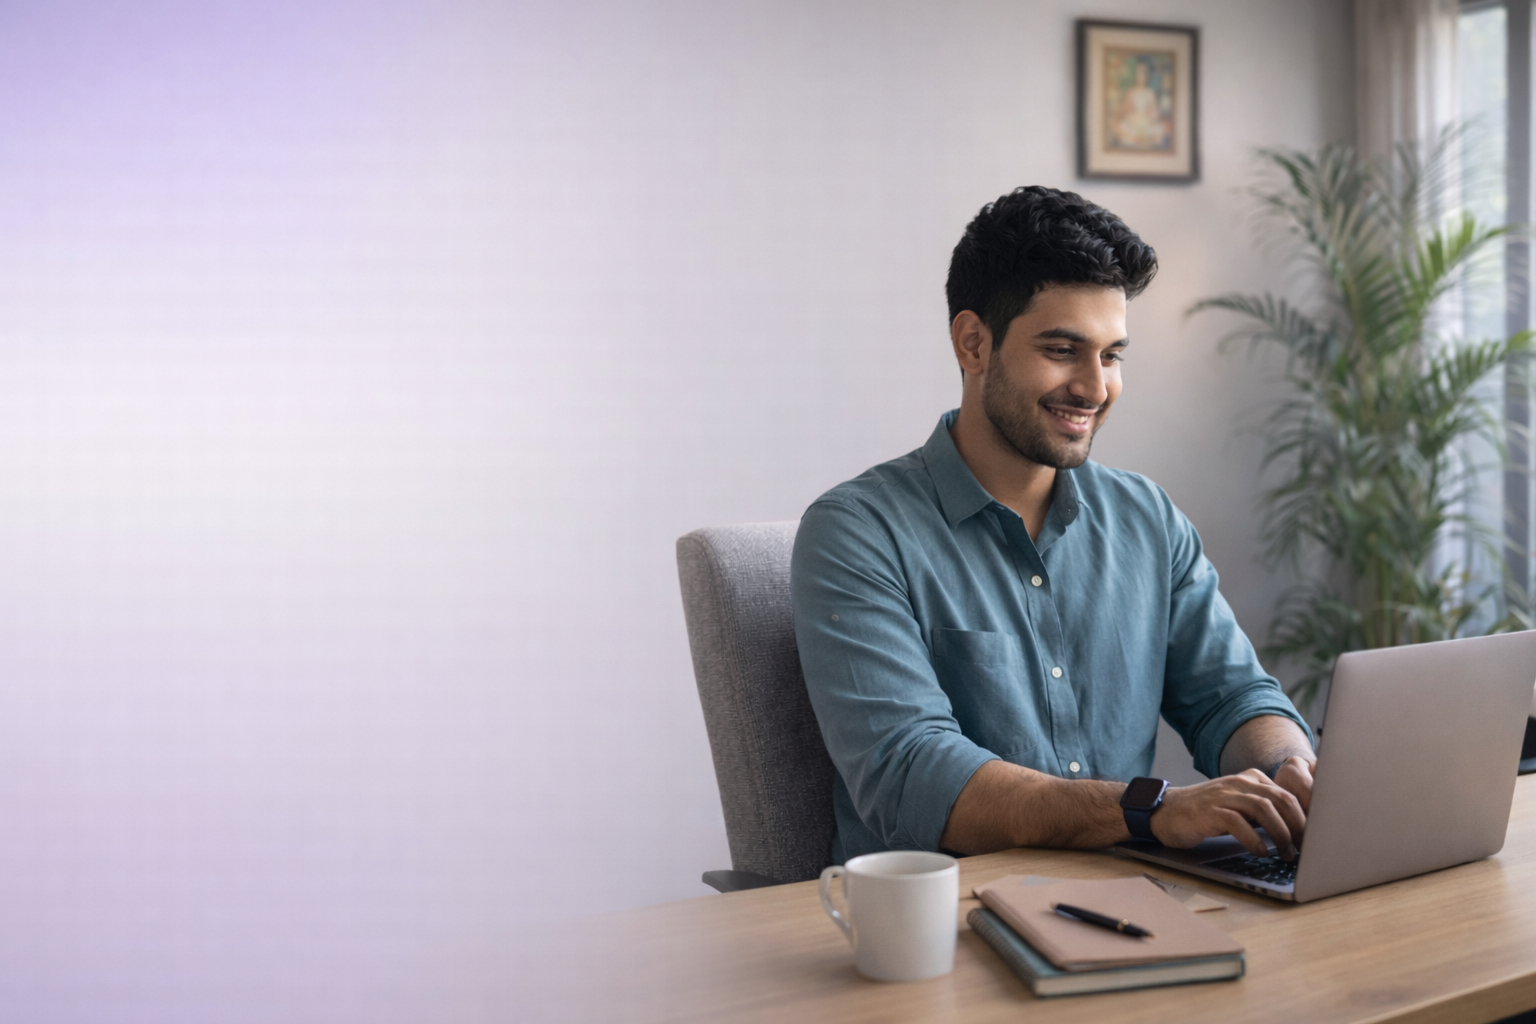
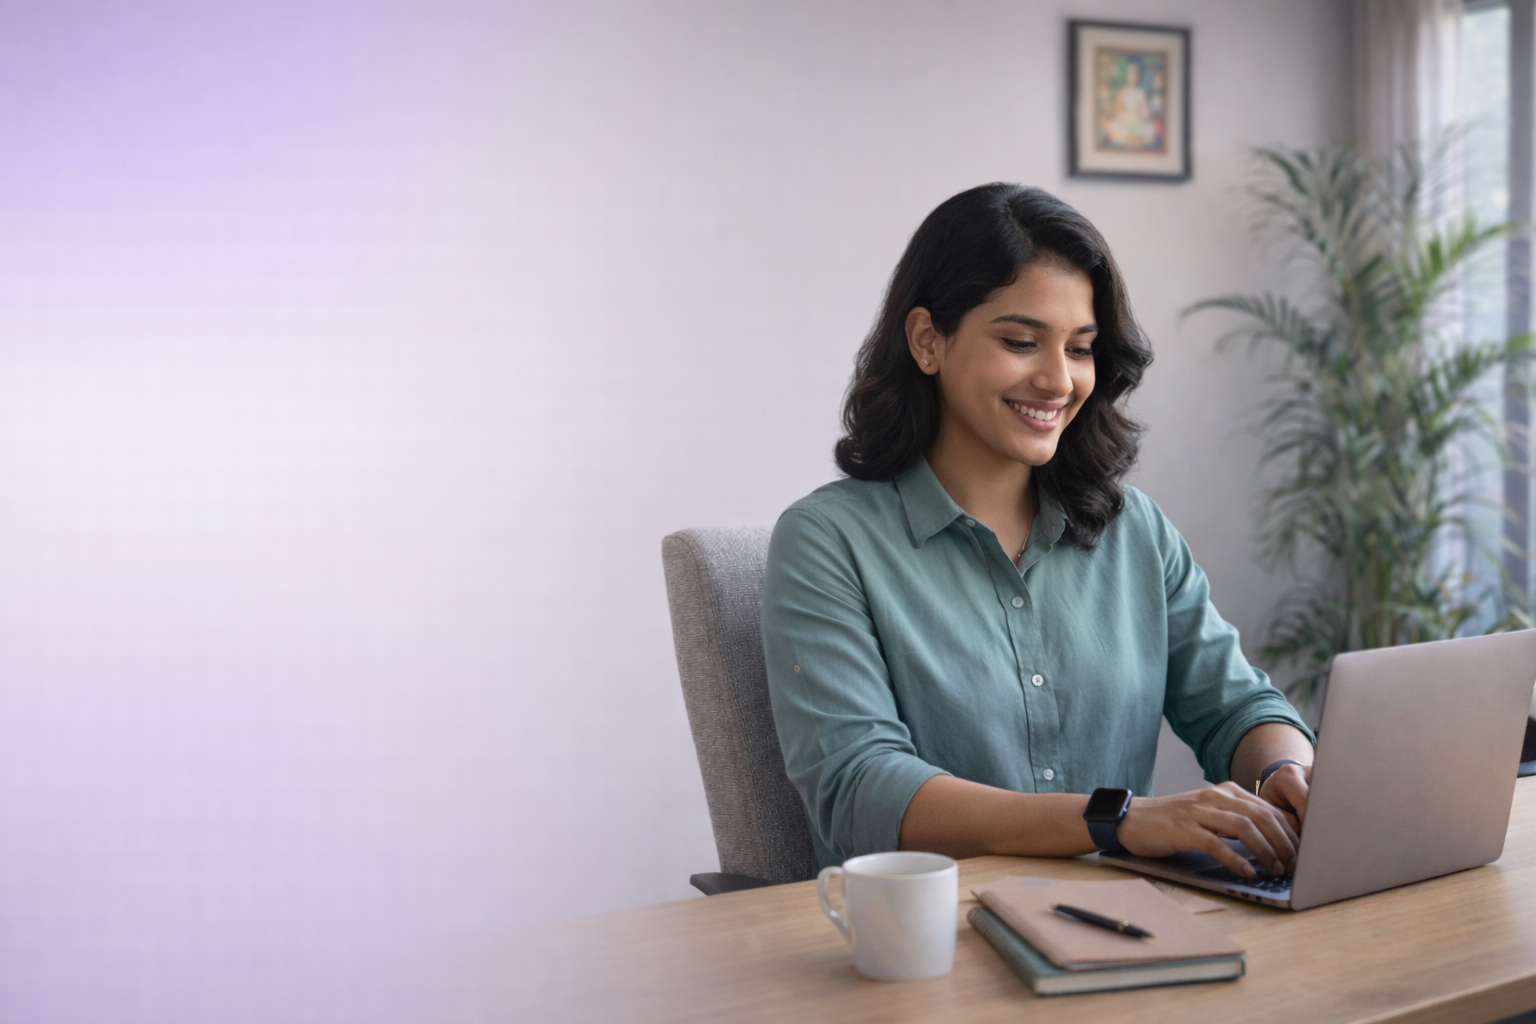
text and UI updates ver:06022026

diff --git a/src/components/Home/Hero.js b/src/components/Home/Hero.js
@@ -6,10 +6,11 @@ import { createGsapContext } from "@/lib/gsap";
 export default function Hero() {
   const heroImages = [
     "/images/hero.png",
-    "/images/img1bg.png",
+    // "/images/img1bg.png",
     "/images/img2bg.png",
     "/images/img3bg.png",
     "/images/img4bg.png",
+    "/images/img5bg.png",
   ];
   const firstLineWords =
     "We ensures your complete medical history is always with you, in emergencies, in hospitals, across cities, across time.".split(
@@ -81,9 +82,9 @@ export default function Hero() {
               </p>
 
               <h1 className="hero-animate mt-4 text-[38px] leading-[1.05] md:text-[60px] md:leading-[1.02] font-extrabold text-wave">
-                Your Health
-                <br />
-                Identity for Life
+                Your Health Identity<br />
+                
+                For Life
               </h1>
 
               <p className="hero-animate mt-5 max-w-xl text-[14px] md:text-[15px] leading-relaxed text-slate-400">

diff --git a/src/components/Genric/Footer/Footer.js b/src/components/Genric/Footer/Footer.js
@@ -33,25 +33,22 @@ export default function Footer() {
 							<li className="flex items-start gap-2">
 								<span className="mt-0.5">✉</span>
 								<a
-									href="mailto:team@signinbiomedical.com"
+									href="mailto:contact@medibank.in"
 									className="hover:text-[#5C4AFF]"
 								>
-									team@signinbiomedical.com
+									contact@medibank.in
 								</a>
 							</li>
 							<li className="flex items-start gap-2">
 								<span className="mt-0.5">📞</span>
 								<a
-									href="tel:+919819117478"
+									href="tel:+919959095217"
 									className="hover:text-[#5C4AFF]"
 								>
-									+91 8919117478
+									 +91 9959095217
 								</a>
 							</li>
-							<li className="flex items-start gap-2">
-								<span className="mt-0.5">🕒</span>
-								<span>Mon–Sat | 10 AM to 7 PM</span>
-							</li>
+							
 						</ul>
 					</div>
 

diff --git a/src/components/Genric/Header/Header.js b/src/components/Genric/Header/Header.js
@@ -19,6 +19,8 @@ export default function Header() {
 
 	const data = [
 		{ url: "/", name: "Home" },
+		{ url: "/doctors", name: "For Doctors" },
+		{ url: "/users", name: "For Users" },
 		{ url: "/partners", name: "Partners" },
 		{ url: "/resources", name: "Resources" },
 		{ url: "/about", name: "About Us" },
